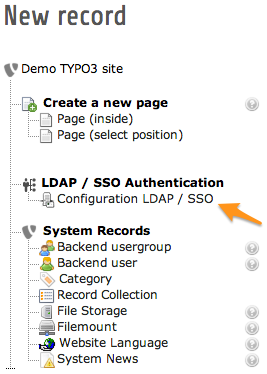
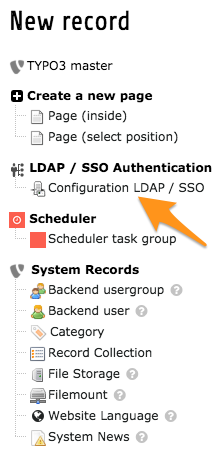
[TASK][DOC] Update some screenshots for redesigned backend module
Related: #65412

diff --git a/Documentation/Introduction/Index.rst b/Documentation/Introduction/Index.rst
@@ -39,17 +39,17 @@ Screenshots
 	Configuration of the connection to the LDAP server
 
 
-.. figure:: ../Images/configuration-be-groups.png
-	:alt: Configuration of backend groups
-
-	Configuration of the retrieval of backend user groups
-
-
 .. figure:: ../Images/configuration-fe-users.png
 	:alt: Configuration of the frontend users
 
 	Configuration of the frontend authentication, how to map LDAP attributes to TYPO3 fields and which groups are
 	required or should be automatically assigned
+
+
+.. figure:: ../Images/configuration-be-groups.png
+	:alt: Configuration of backend groups
+
+	Configuration of the retrieval of backend user groups
 
 
 .. figure:: ../Images/status.png
@@ -79,7 +79,7 @@ Full user import was sponsored by the Ecole d'Etudes Sociales et Pédagogiques, 
 
 Further information:
 
-- Causal Sàrl: https://www.causal.ch/
-- Centre électronique de gestion (CEG): `http://www.neuchatelville.ch/ <http://www.neuchatelville.ch/ceg>`_
-- Ecole d'Etudes Sociales et Pédagogiques (EESP): http://www.eesp.ch/
-- Infoglobe: http://www.infoglobe.ca/
+- Causal Sàrl: https://www.causal.ch
+- Centre électronique de gestion (CEG): `http://www.neuchatelville.ch <http://www.neuchatelville.ch/ceg>`_
+- Ecole d'Etudes Sociales et Pédagogiques (EESP): http://www.eesp.ch
+- Infoglobe: http://www.infoglobe.ca
